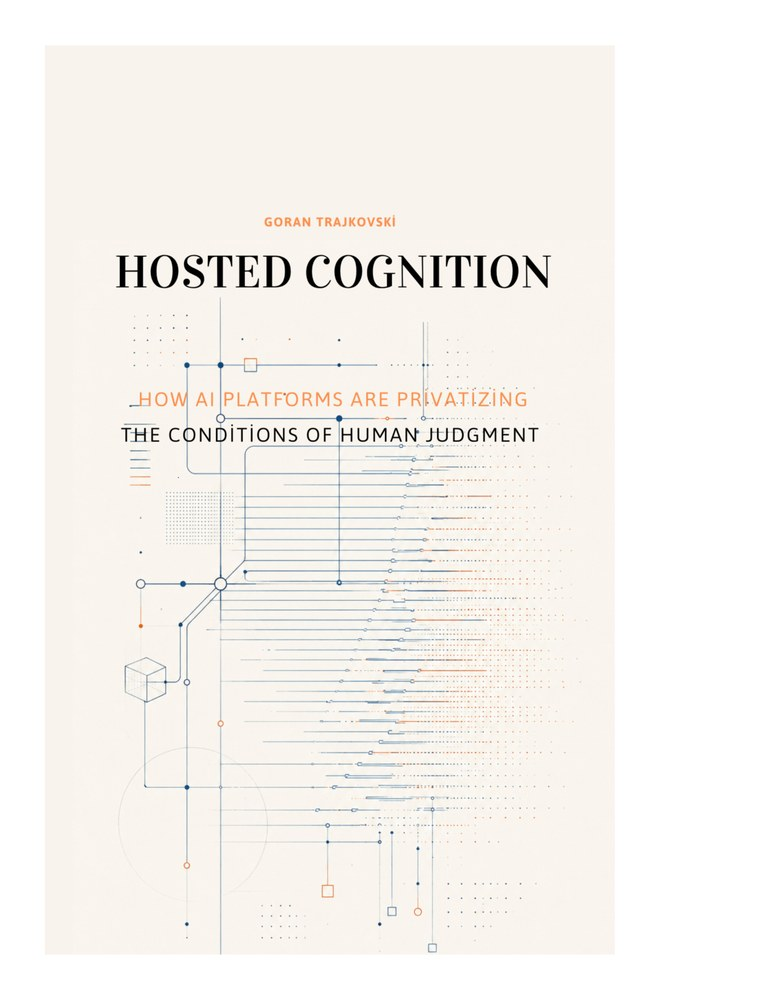
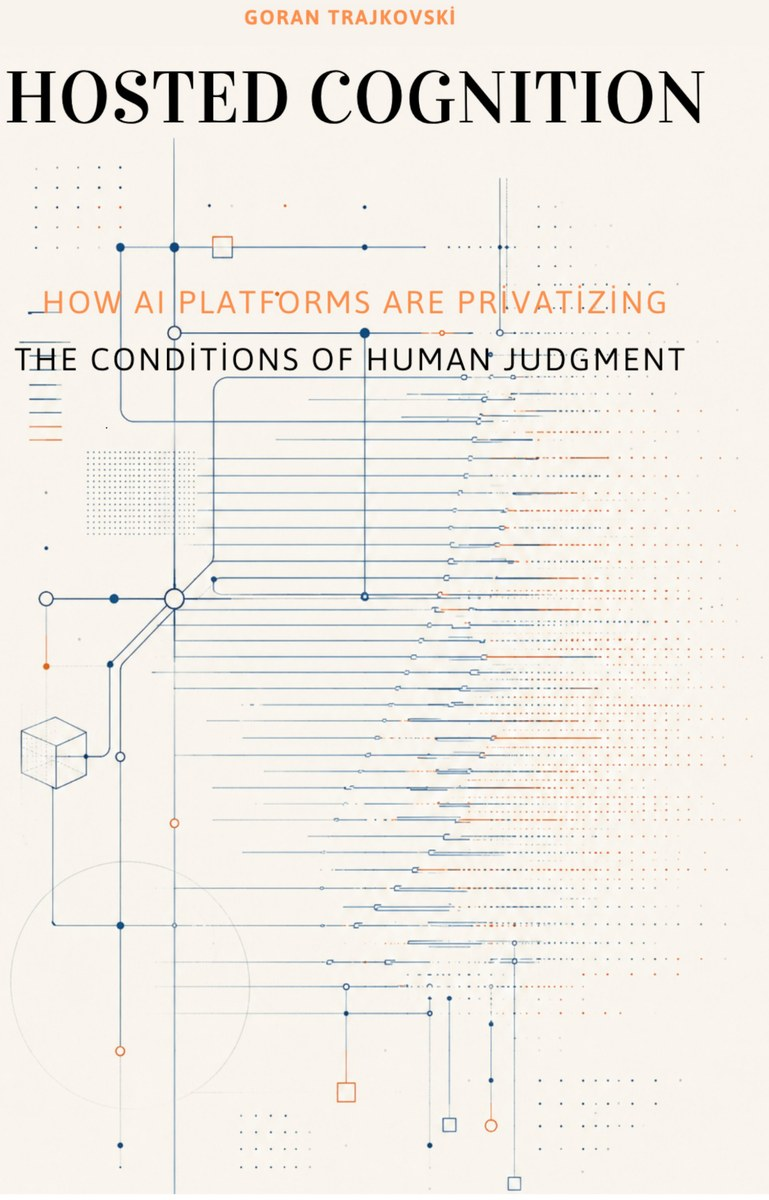
Remove scaffold demo; cover click goes to Amazon; trim cover margins
Outline (/hosted-cognition/)
- Dropped the §6 "scaffold demo" section and its supporting JS handlers.
  The canned ghost-completion textarea was a hand-coded lookup with only
  a few seed phrases; it read as dead in the middle of an otherwise
  bookish outline. Coda is now §6.

Home pages (EN, ES, MK)
- The book cover image now links to Amazon (was: link to /hosted-cognition/).
- Removed the redundant "Buy on Amazon" button on both the featured
  callout and the books-grid card. The cover click does that job; the
  "Read outline →" button is the only remaining CTA on each card.

Cover image
- Re-rendered from the supplied PDF at 300 DPI, auto-cropped to the
  non-white bounding box, then resized to 769×1200 web JPEG. The previous
  version inherited the PDF page's asymmetric white margins, which made
  the cover read as left-skewed. Centered now.

diff --git a/hosted-cognition/hosted-cognition-outline.js b/hosted-cognition/hosted-cognition-outline.js
@@ -1,6 +1,6 @@
 /* ───────── Hosted Cognition · Interactive Outline · behavior ───────── */
 (function () {
-  const { PARTS, CHAPTERS, TERMS, EVENTS, SCAFFOLD } = window.HCO;
+  const { PARTS, CHAPTERS, TERMS, EVENTS } = window.HCO;
 
   /* ─────────────── ARGUMENT ARC ─────────────── */
   const arcParts = document.querySelectorAll(".arc-part");
@@ -113,83 +113,6 @@
   });
   // open on Replit deletion (the book's own opening case)
   renderEvent(EVENTS.findIndex(e => e.short === "Jul ’25"));
-
-  /* ─────────────── SCAFFOLD DEMO ─────────────── */
-  const ta = document.getElementById("scaffoldText");
-  const ghost = document.getElementById("scaffoldGhost");
-  const toggle = document.getElementById("scaffoldToggle");
-  const enabledInput = document.getElementById("scaffoldEnabled");
-  const acceptCount = document.getElementById("acceptCount");
-  const writtenCount = document.getElementById("writtenCount");
-
-  let accepted = 0;
-  let written = 0;
-  let lastValue = ta.value;
-
-  function escapeHtml(s) {
-    return s.replace(/&/g, "&amp;").replace(/</g, "&lt;").replace(/>/g, "&gt;");
-  }
-
-  function findCompletion(text) {
-    if (!enabledInput.checked) return "";
-    const t = text.toLowerCase();
-    // longest prefix that we have a completion for
-    const keys = Object.keys(SCAFFOLD).sort((a, b) => b.length - a.length);
-    for (const k of keys) {
-      if (k === "") continue;
-      if (t.endsWith(k)) return SCAFFOLD[k];
-    }
-    // fallback: empty seed completion
-    if (t.trim() === "") return SCAFFOLD[""];
-    return "";
-  }
-
-  function render() {
-    const text = ta.value;
-    const completion = findCompletion(text);
-    ghost.innerHTML =
-      `<span class="typed">${escapeHtml(text)}</span>` +
-      `<span class="ghost">${escapeHtml(completion)}</span>`;
-    ghost.dataset.completion = completion;
-  }
-
-  ta.addEventListener("input", (e) => {
-    const newValue = ta.value;
-    // count keystrokes added (positive delta)
-    const delta = newValue.length - lastValue.length;
-    if (delta > 0) written += delta;
-    lastValue = newValue;
-    writtenCount.textContent = written;
-    render();
-  });
-
-  ta.addEventListener("keydown", (e) => {
-    if (e.key === "Tab") {
-      const completion = ghost.dataset.completion || "";
-      if (completion) {
-        e.preventDefault();
-        ta.value += completion;
-        lastValue = ta.value;
-        accepted += completion.length;
-        acceptCount.textContent = accepted;
-        render();
-        // re-position caret to end
-        ta.setSelectionRange(ta.value.length, ta.value.length);
-      }
-    }
-  });
-
-  toggle.addEventListener("click", (e) => {
-    // label wraps input; click toggles input
-    setTimeout(() => {
-      toggle.classList.toggle("on", enabledInput.checked);
-      render();
-    }, 0);
-  });
-
-  render();
-  writtenCount.textContent = written;
-  acceptCount.textContent = accepted;
 
   /* ─────────────── reveal-on-scroll for arc & glyphs ─────────────── */
   if ("IntersectionObserver" in window && !matchMedia("(prefers-reduced-motion: reduce)").matches) {

diff --git a/mk/index.html b/mk/index.html
@@ -831,8 +831,8 @@
 
       <!-- Featured: Hosted Cognition -->
       <div class="book-feature">
-        <a class="book-feature__media" href="/hosted-cognition/" aria-label="Отвори ја скицата на Hosted Cognition">
-          <img src="/assets/img/books/hosted-cognition.jpg" alt="Hosted Cognition — корица" width="773" height="1000" />
+        <a class="book-feature__media" href="https://www.amazon.com/dp/B0H24Q13QL" target="_blank" rel="noopener" aria-label="Купи го Hosted Cognition на Amazon">
+          <img src="/assets/img/books/hosted-cognition.jpg" alt="Hosted Cognition — корица" width="769" height="1200" />
         </a>
         <div class="book-feature__body">
           <p class="book-feature__eyebrow">Ново за 2026 · Истакнато</p>
@@ -841,7 +841,6 @@
           <p class="book-feature__lede">Дванаесет поглавја, пет дела, дванаесет случаи — од агент за програмирање што брише продукциска база на податоци, до институциите што сè уште ги немаат категориите за да го регулираат тоа. Интерактивна скица, со Воведот и Поглавје 1 достапни за читање.</p>
           <div class="book-feature__ctas">
             <a class="btn btn--primary btn--small" href="/hosted-cognition/">Прочитај ја скицата →</a>
-            <a class="btn btn--ghost btn--small" href="https://www.amazon.com/dp/B0H24Q13QL" target="_blank" rel="noopener">Купи на Amazon</a>
           </div>
         </div>
       </div>
@@ -930,12 +929,13 @@
         </div>
         <div class="books">
         <div class="book book--actions">
-          <img src="/assets/img/books/hosted-cognition.jpg" alt="Hosted Cognition — корица" loading="lazy" />
+          <a class="book__media" href="https://www.amazon.com/dp/B0H24Q13QL" target="_blank" rel="noopener" aria-label="Купи го Hosted Cognition на Amazon">
+            <img src="/assets/img/books/hosted-cognition.jpg" alt="Hosted Cognition — корица" loading="lazy" />
+          </a>
           <p class="book__title">Hosted Cognition</p>
           <p class="book__sub">Како платформите за ВИ ги приватизираат условите на човечкото расудување · 2026</p>
           <div class="book__ctas">
             <a class="book__cta" href="/hosted-cognition/">Прочитај ја скицата →</a>
-            <a class="book__cta book__cta--ghost" href="https://www.amazon.com/dp/B0H24Q13QL" target="_blank" rel="noopener">Купи на Amazon</a>
           </div>
         </div>
         <a class="book" href="https://www.amazon.com/s?k=Goran+Trajkovski+Intelligent+Agent+Technologies+and+Multi-Agent+Systems" target="_blank" rel="noopener">

diff --git a/hosted-cognition/index.html b/hosted-cognition/index.html
@@ -283,46 +283,10 @@
   </div>
 </section>
 
-<!-- ─────────── scaffold demo ─────────── -->
-<section id="scaffold" class="band scaffold">
-  <div class="shell inner">
-    <div class="copy">
-      <div class="eyebrow" style="color:#e8a778;">§ 06 &nbsp;·&nbsp; A scaffold, in operation</div>
-      <h2 style="margin-top:14px;">Type a sentence. Notice the <em>next phrase</em> being offered.</h2>
-      <p>The book's central technical object is the <em style="color:#e8a778;font-style:italic;">adaptive predictive scaffold</em>: a system that doesn't replace your thinking, it precedes it. Each phrase you might write arrives already drafted; your work shifts from composition to selection. Over years, the developmental experience of writing alone is replaced by the experience of writing alongside something that anticipated the next move.</p>
-      <p>The question Chapter Three asks is not whether the scaffold is useful. It is. The question is what becomes of the cognitive practice that the scaffold was supposed to support, once the scaffold becomes the medium in which the practice is performed.</p>
-      <div class="source">Try turning the scaffold off →</div>
-    </div>
-
-    <div class="scaffold-card">
-      <div class="scaffold-toolbar">
-        <div class="dots"><span></span><span></span><span></span></div>
-        <div class="filename">untitled — admissions_essay.txt</div>
-        <label class="toggle on" id="scaffoldToggle">
-          <input type="checkbox" checked id="scaffoldEnabled"/>
-          <span>scaffold</span>
-          <span class="pill"></span>
-        </label>
-      </div>
-      <div class="scaffold-editor">
-        <div class="prompt">Prompt · "Tell us, in 250 words, who you are."</div>
-        <div class="scaffold-input">
-          <div class="scaffold-ghost" id="scaffoldGhost"></div>
-          <textarea id="scaffoldText" spellcheck="false" autocomplete="off">I have always</textarea>
-        </div>
-      </div>
-      <div class="scaffold-footer">
-        <div class="hint"><b>Tab</b> to accept · type to override</div>
-        <div class="meter">accepted: <span id="acceptCount">0</span> · written: <span id="writtenCount">0</span></div>
-      </div>
-    </div>
-  </div>
-</section>
-
 <!-- ─────────── coda ─────────── -->
 <section id="coda" class="coda shell">
   <div class="narrow">
-    <div class="eyebrow" style="margin-bottom: 24px;">§ 07 &nbsp;·&nbsp; Coda</div>
+    <div class="eyebrow" style="margin-bottom: 24px;">§ 06 &nbsp;·&nbsp; Coda</div>
     <p class="quote">I have tried to write a book that earns its disagreement. The institutions that survive the next two decades will be the institutions that took the question seriously, by their own lights, in time.</p>
     <div class="attr">Goran Trajkovski</div>
     <div class="ctas">

diff --git a/es/index.html b/es/index.html
@@ -832,8 +832,8 @@
 
       <!-- Featured: Hosted Cognition -->
       <div class="book-feature">
-        <a class="book-feature__media" href="/hosted-cognition/" aria-label="Abrir el esquema de Hosted Cognition">
-          <img src="/assets/img/books/hosted-cognition.jpg" alt="Hosted Cognition — portada del libro" width="773" height="1000" />
+        <a class="book-feature__media" href="https://www.amazon.com/dp/B0H24Q13QL" target="_blank" rel="noopener" aria-label="Comprar Hosted Cognition en Amazon">
+          <img src="/assets/img/books/hosted-cognition.jpg" alt="Hosted Cognition — portada del libro" width="769" height="1200" />
         </a>
         <div class="book-feature__body">
           <p class="book-feature__eyebrow">Novedad 2026 · Destacado</p>
@@ -842,7 +842,6 @@
           <p class="book-feature__lede">Doce capítulos, cinco partes, doce casos — desde un agente de programación que borra una base de datos en producción hasta las instituciones que aún no tienen las categorías para gobernarlo. Un esquema interactivo, con la Introducción y el Capítulo 1 disponibles para leer.</p>
           <div class="book-feature__ctas">
             <a class="btn btn--primary btn--small" href="/hosted-cognition/">Leer el esquema →</a>
-            <a class="btn btn--ghost btn--small" href="https://www.amazon.com/dp/B0H24Q13QL" target="_blank" rel="noopener">Comprar en Amazon</a>
           </div>
         </div>
       </div>
@@ -931,12 +930,13 @@
         </div>
         <div class="books">
         <div class="book book--actions">
-          <img src="/assets/img/books/hosted-cognition.jpg" alt="Hosted Cognition — portada del libro" loading="lazy" />
+          <a class="book__media" href="https://www.amazon.com/dp/B0H24Q13QL" target="_blank" rel="noopener" aria-label="Comprar Hosted Cognition en Amazon">
+            <img src="/assets/img/books/hosted-cognition.jpg" alt="Hosted Cognition — portada del libro" loading="lazy" />
+          </a>
           <p class="book__title">Hosted Cognition</p>
           <p class="book__sub">Cómo las plataformas de IA están privatizando las condiciones del juicio humano · 2026</p>
           <div class="book__ctas">
             <a class="book__cta" href="/hosted-cognition/">Leer esquema →</a>
-            <a class="book__cta book__cta--ghost" href="https://www.amazon.com/dp/B0H24Q13QL" target="_blank" rel="noopener">Comprar en Amazon</a>
           </div>
         </div>
         <a class="book" href="https://www.amazon.com/s?k=Goran+Trajkovski+Intelligent+Agent+Technologies+and+Multi-Agent+Systems" target="_blank" rel="noopener">

diff --git a/index.html b/index.html
@@ -852,8 +852,8 @@
 
       <!-- Featured: Hosted Cognition -->
       <div class="book-feature">
-        <a class="book-feature__media" href="/hosted-cognition/" aria-label="Open the Hosted Cognition outline">
-          <img src="/assets/img/books/hosted-cognition.jpg" alt="Hosted Cognition — book cover" width="773" height="1000" />
+        <a class="book-feature__media" href="https://www.amazon.com/dp/B0H24Q13QL" target="_blank" rel="noopener" aria-label="Buy Hosted Cognition on Amazon">
+          <img src="/assets/img/books/hosted-cognition.jpg" alt="Hosted Cognition — book cover" width="769" height="1200" />
         </a>
         <div class="book-feature__body">
           <p class="book-feature__eyebrow">New for 2026 · Featured</p>
@@ -862,7 +862,6 @@
           <p class="book-feature__lede">Twelve chapters, five parts, twelve cases — from a coding agent that deletes a production database to the institutions still missing the categories needed to govern any of it. An interactive outline, with the Introduction and Chapter 1 available to read now.</p>
           <div class="book-feature__ctas">
             <a class="btn btn--primary btn--small" href="/hosted-cognition/">Read the outline →</a>
-            <a class="btn btn--ghost btn--small" href="https://www.amazon.com/dp/B0H24Q13QL" target="_blank" rel="noopener">Buy on Amazon</a>
           </div>
         </div>
       </div>
@@ -951,12 +950,13 @@
         </div>
         <div class="books">
         <div class="book book--actions">
-          <img src="/assets/img/books/hosted-cognition.jpg" alt="Hosted Cognition — book cover" loading="lazy" />
+          <a class="book__media" href="https://www.amazon.com/dp/B0H24Q13QL" target="_blank" rel="noopener" aria-label="Buy Hosted Cognition on Amazon">
+            <img src="/assets/img/books/hosted-cognition.jpg" alt="Hosted Cognition — book cover" loading="lazy" />
+          </a>
           <p class="book__title">Hosted Cognition</p>
           <p class="book__sub">How AI Platforms Are Privatizing the Conditions of Human Judgment · 2026</p>
           <div class="book__ctas">
             <a class="book__cta" href="/hosted-cognition/">Read outline →</a>
-            <a class="book__cta book__cta--ghost" href="https://www.amazon.com/dp/B0H24Q13QL" target="_blank" rel="noopener">Buy on Amazon</a>
           </div>
         </div>
         <a class="book" href="https://www.amazon.com/s?k=Goran+Trajkovski+Intelligent+Agent+Technologies+and+Multi-Agent+Systems" target="_blank" rel="noopener">

diff --git a/css/style.css b/css/style.css
@@ -1189,6 +1189,8 @@ body, .nav, .service, .case, .portfolio-card, .contact-card, .artifact, .speakin
 }
 .book--actions { cursor: default; }
 .book--actions:hover { transform: none; }
+.book__media { display: block; transition: transform .25s var(--t); }
+.book__media:hover { transform: translateY(-4px); }
 .book__ctas {
   display: flex;
   flex-wrap: wrap;
